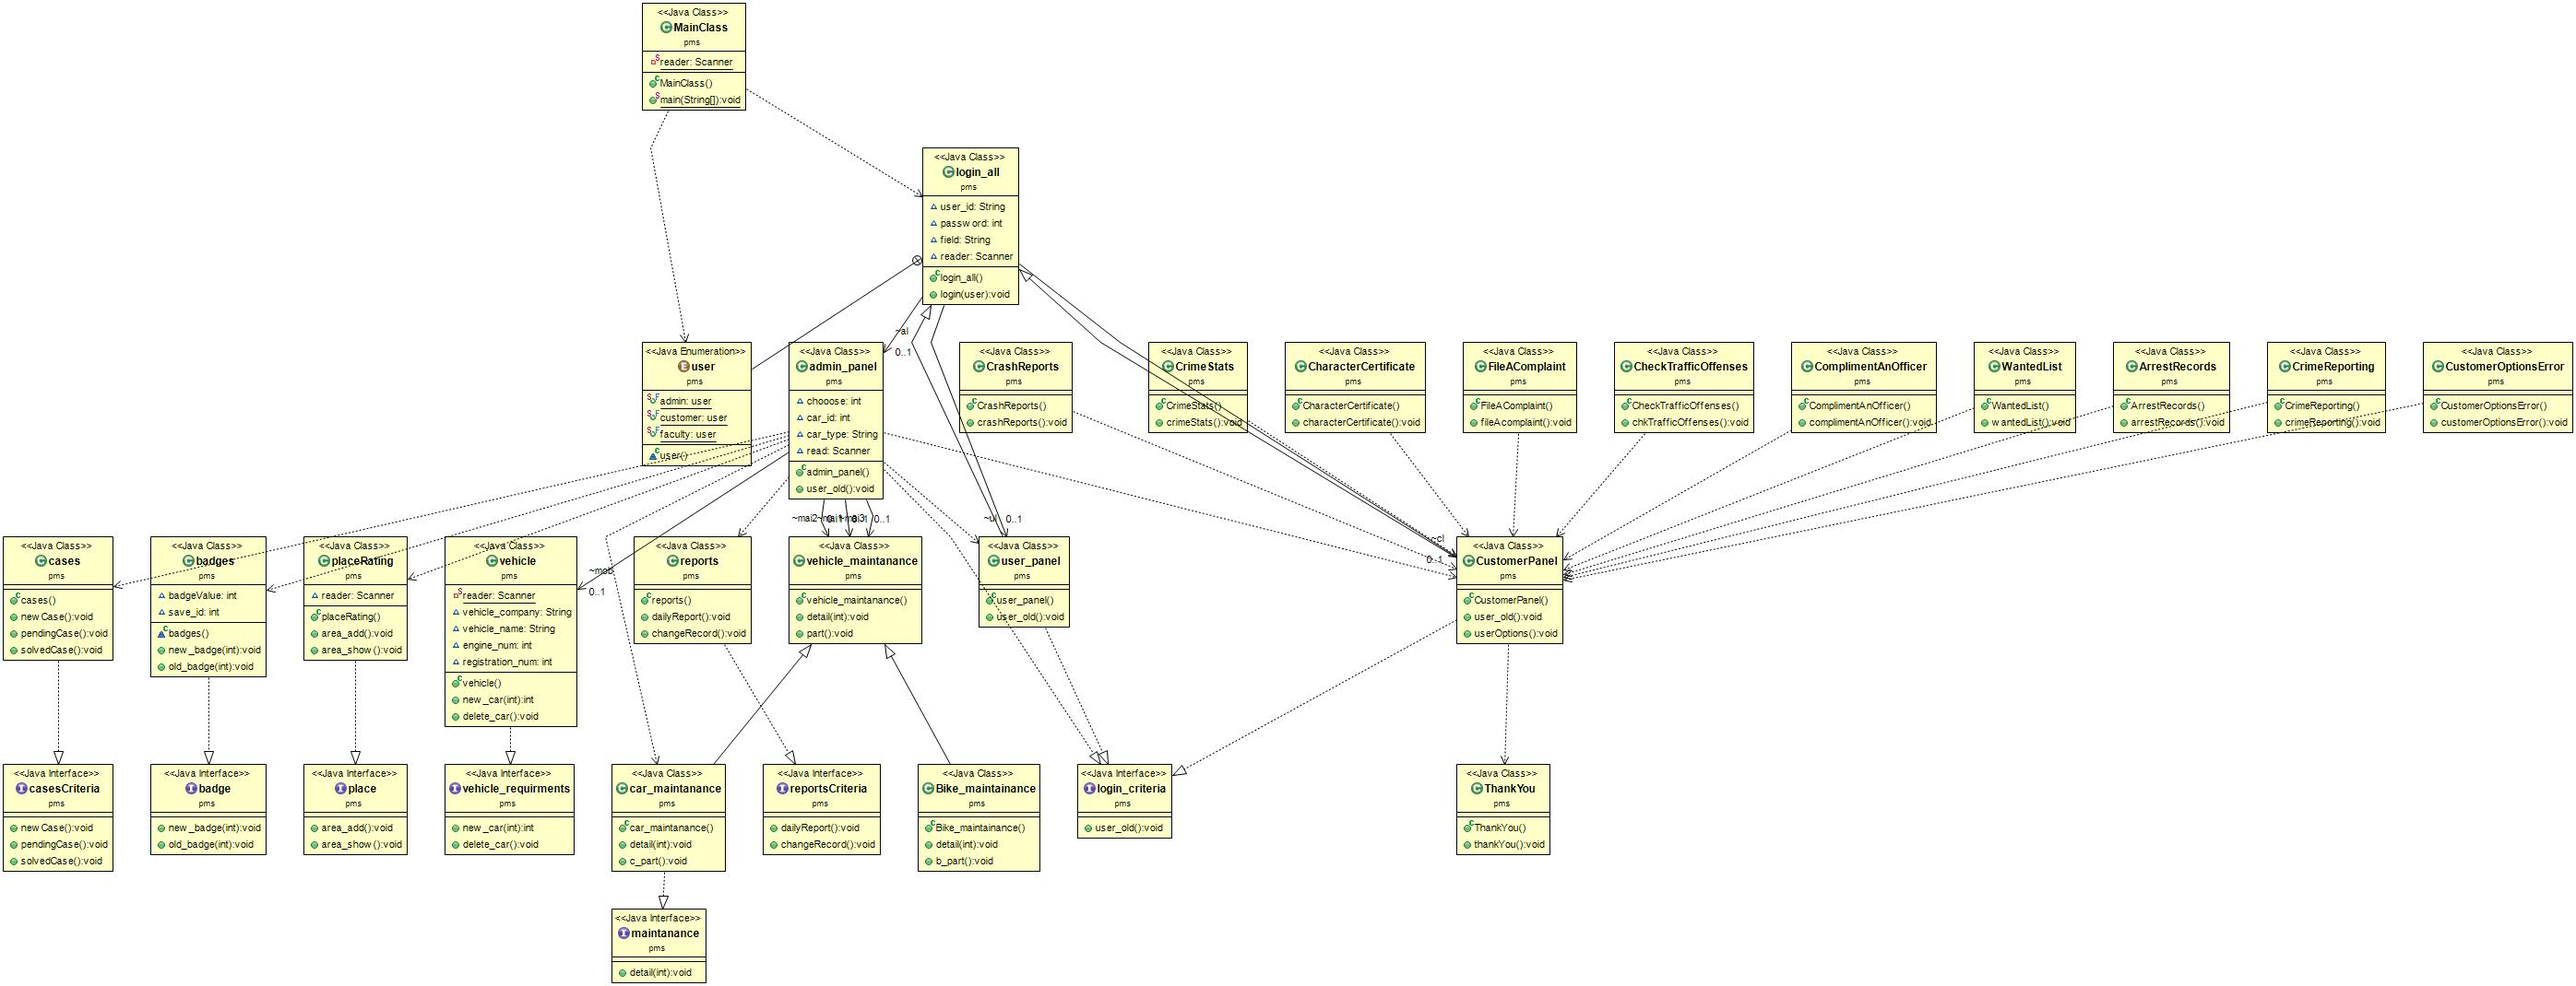
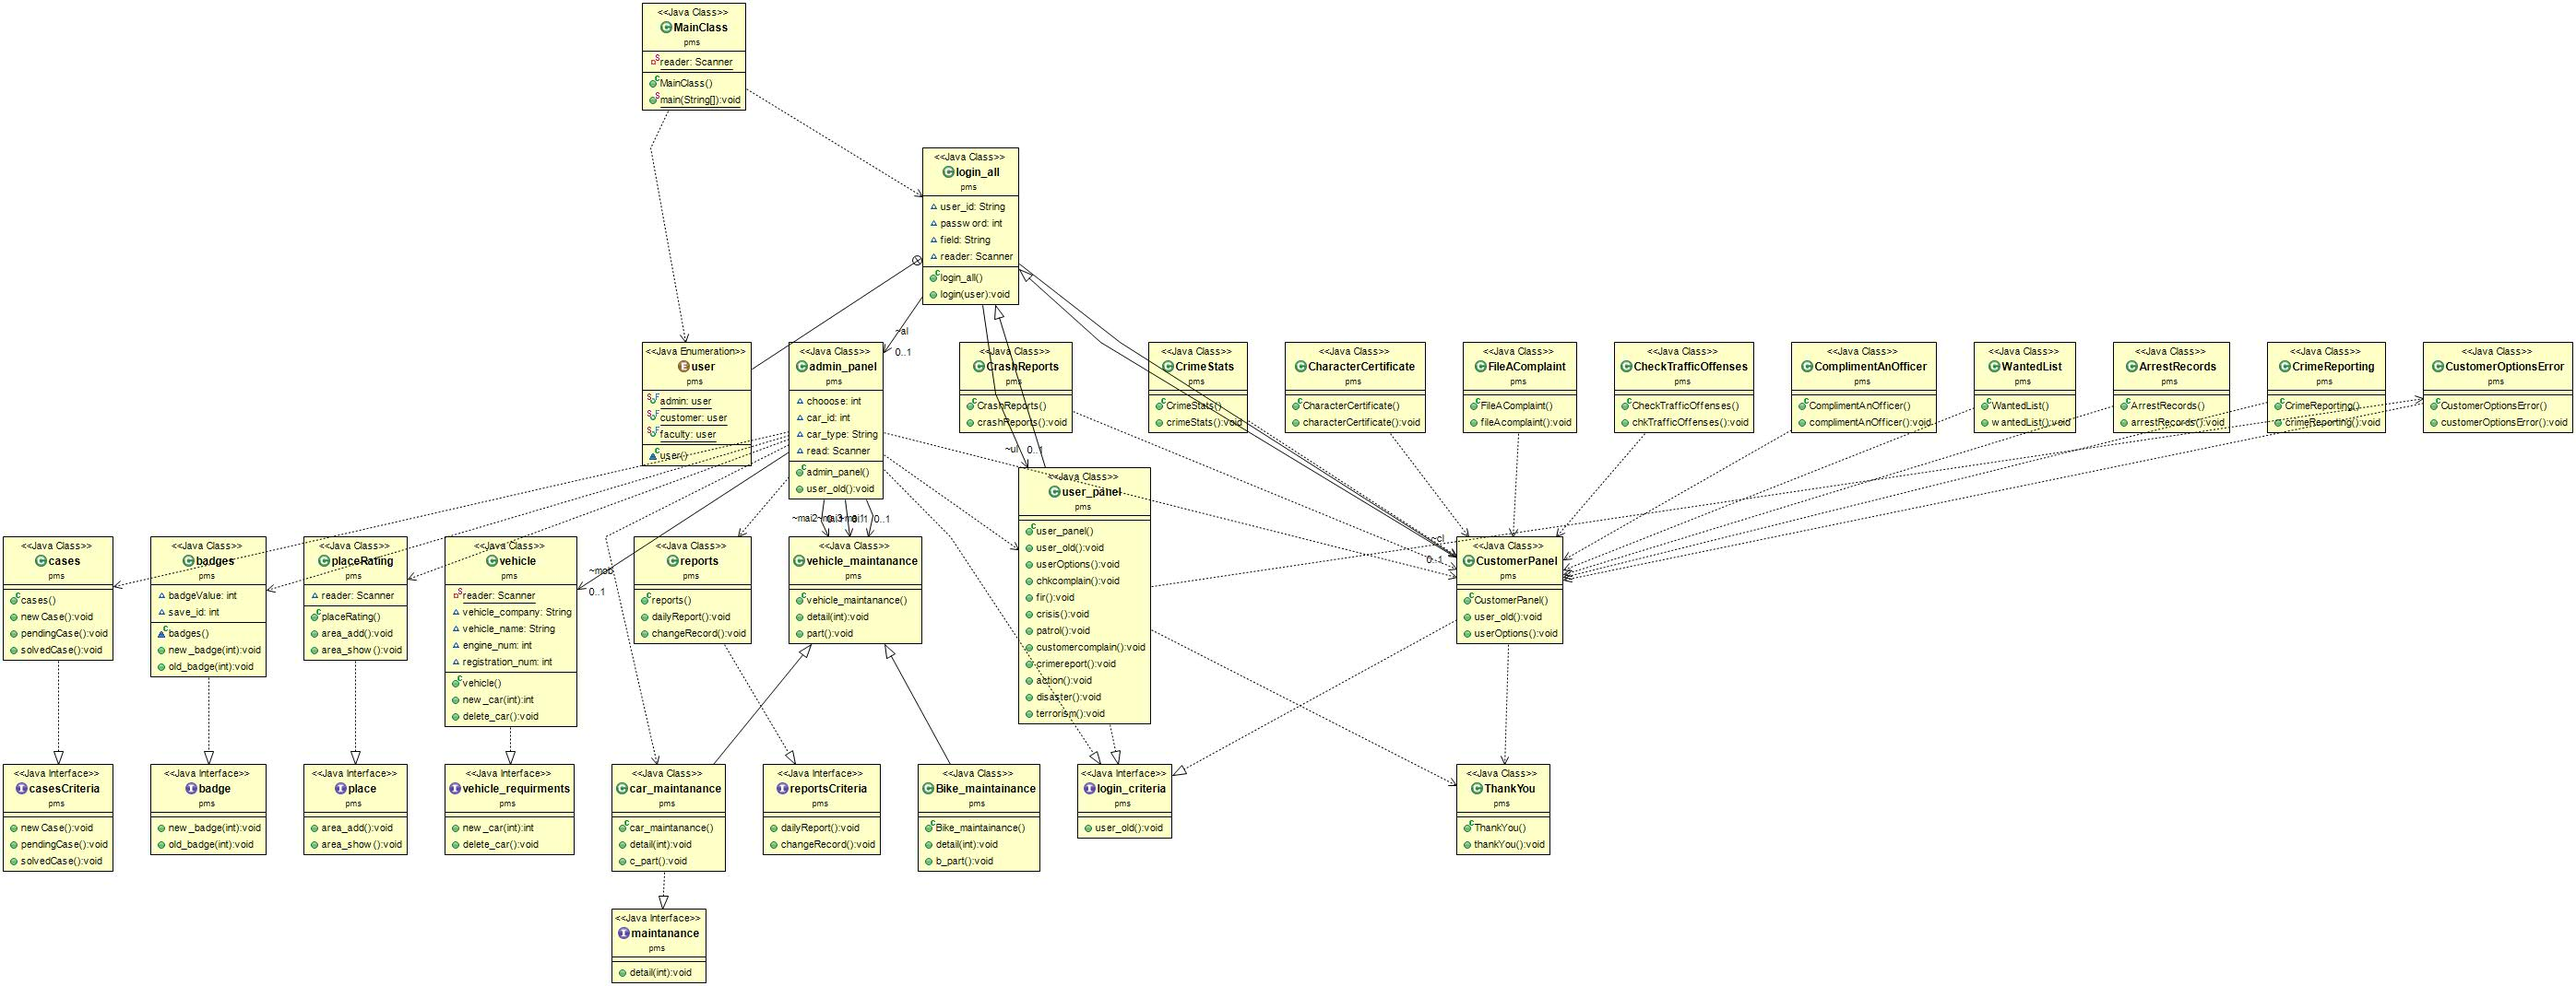
Add files via upload

Changed region(s): [[0.3738, 0.4318, 0.4672, 0.7402]]

diff --git a/user_panel.java b/user_panel.java
@@ -1,9 +1,88 @@
 package pms;
 
-public class user_panel extends Login_All implements Login_Criteria {
+import java.util.Scanner;
+
+public class user_panel extends login_all implements login_criteria {
 	//yaha login data kii zarurat nii ussy direct login_all kii class mai daalo
+        @Override
 	public void user_old(){
-		System.out.println("YOU ARE NOW LOGGED IN AS faculty");
+		System.out.println("can make changes to HIS/HER ACCOUNT and changes can also be made by admin");	
+	}
+        public void userOptions()
+	{
+		System.out.println("Welcome Officier");
+
+		System.out.println("What do you want?");
+		System.out.println("Press 0 to Quit \r\n Press 1 to check complain \r\n Press 2 to write FIR \r\n"
+				+ "Press 3 to check Crisis \r\n Press 4 to Patrol"
+				+ "\r\n Press 5 to complain against customer \r\n Press 6 to check Crime Reports \r\n Press 7 to take Actions"
+				+ "\r\n Press 8 for Natural Disaster \r\n Press 9 for Terrorism ");
+		Scanner sc = new Scanner(System.in);
+		int option = sc.nextInt();
+		if(option==1){
+			chkcomplain();
+		} else if(option==2){
+			fir();
+		} else if(option==3){
+			crisis();
+		} else if(option==4){
+			patrol();
+		} else if(option==5){
+			customercomplain();
+		} else if(option==6){
+			crimereport();
+		} else if(option==7){
+			action();
+		} else if(option==8){
+			disaster();
+		} else if(option==9){
+			terrorism();
+		}
+		 else if(option==0){
+			ThankYou ty = new ThankYou(); 	
+			 ty.thankYou();
+			}
+		else{
+			CustomerOptionsError coe = new CustomerOptionsError();
+			coe.customerOptionsError();
+		}
+		sc.close();
 		
+	}
+	public void chkcomplain()
+	{
+		System.out.println("Thank you for visiting \r\n Your well wishers \r\n POLICE");
+	}
+	public void fir()
+	{
+		System.out.println("Thank you for visiting \r\n Your well wishers \r\n POLICE");
+	}
+	public void crisis()
+	{
+		System.out.println("Thank you for visiting \r\n Your well wishers \r\n POLICE");
+	}
+	public void patrol()
+	{
+		System.out.println("Thank you for visiting \r\n Your well wishers \r\n POLICE");
+	}
+	public void customercomplain()
+	{
+		System.out.println("Thank you for visiting \r\n Your well wishers \r\n POLICE");
+	}
+	public void crimereport()
+	{
+		System.out.println("Thank you for visiting \r\n Your well wishers \r\n POLICE");
+	}
+	public void action()
+	{
+		System.out.println("Thank you for visiting \r\n Your well wishers \r\n POLICE");
+	}
+	public void disaster()
+	{
+		System.out.println("Thank you for visiting \r\n Your well wishers \r\n POLICE");
+	}
+	public void terrorism()
+	{
+		System.out.println("Thank you for visiting \r\n Your well wishers \r\n POLICE");
 	}
 }
